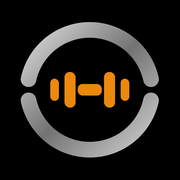
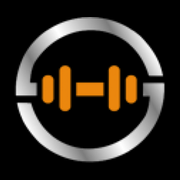
Fixed POS

Changed region(s): [[0.0833, 0.0833, 0.9167, 0.9167]]

diff --git a/client/src/components/site/Logo.jsx b/client/src/components/site/Logo.jsx
@@ -1,28 +1,18 @@
 import { Link } from 'react-router-dom';
 
-// Original client logo colours (sampled 1:1 from the brand file)
-const LOGO_ORANGE = '#eb880e';
-
+// Logo mark (chrome ring + dumbbell) = client's exact artwork, extracted from the brand PNG
+// (client/public/images/fitx/logo/fitx-mark.png — 229 x 220, transparent)
 export function LogoMark({ size = 40, className = '' }) {
   return (
-    <svg width={size} height={size} viewBox="0 0 64 64" fill="none" aria-hidden="true" className={className}>
-      <defs>
-        <linearGradient id="fitx-silver" x1="0" y1="0" x2="64" y2="64" gradientUnits="userSpaceOnUse">
-          <stop stopColor="#f5f5f5" />
-          <stop offset="0.5" stopColor="#737373" />
-          <stop offset="1" stopColor="#e6e6e6" />
-        </linearGradient>
-      </defs>
-      <path d="M6.6 27.6 A 26 26 0 0 1 57.4 27.6" stroke="url(#fitx-silver)" strokeWidth="6.5" strokeLinecap="round" />
-      <path d="M6.6 36.4 A 26 26 0 0 0 57.4 36.4" stroke="url(#fitx-silver)" strokeWidth="6.5" strokeLinecap="round" />
-      <g fill={LOGO_ORANGE}>
-        <rect x="27" y="29.6" width="10" height="4.8" rx="2" />
-        <rect x="21.5" y="24.6" width="4.6" height="14.8" rx="2.2" />
-        <rect x="37.9" y="24.6" width="4.6" height="14.8" rx="2.2" />
-        <rect x="15.6" y="27.4" width="3.6" height="9.2" rx="1.8" />
-        <rect x="44.8" y="27.4" width="3.6" height="9.2" rx="1.8" />
-      </g>
-    </svg>
+    <img
+      src="/images/fitx/logo/fitx-mark.png"
+      alt=""
+      aria-hidden="true"
+      width={size}
+      height={Math.round((size * 220) / 229)}
+      className={className}
+      style={{ display: 'block' }}
+    />
   );
 }
 
